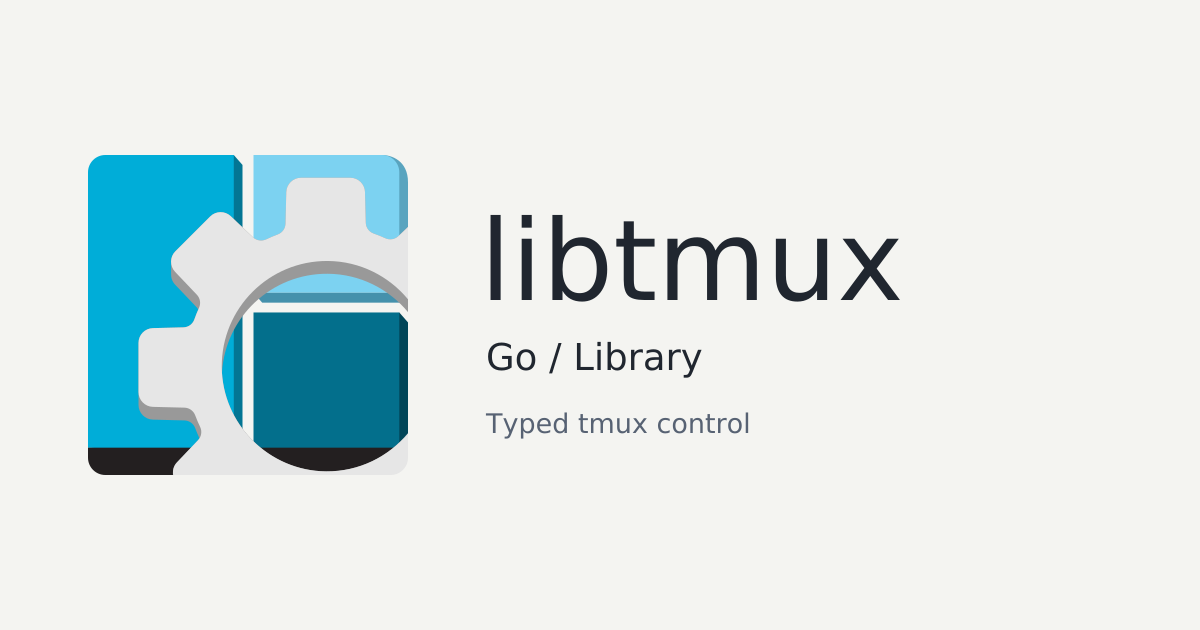
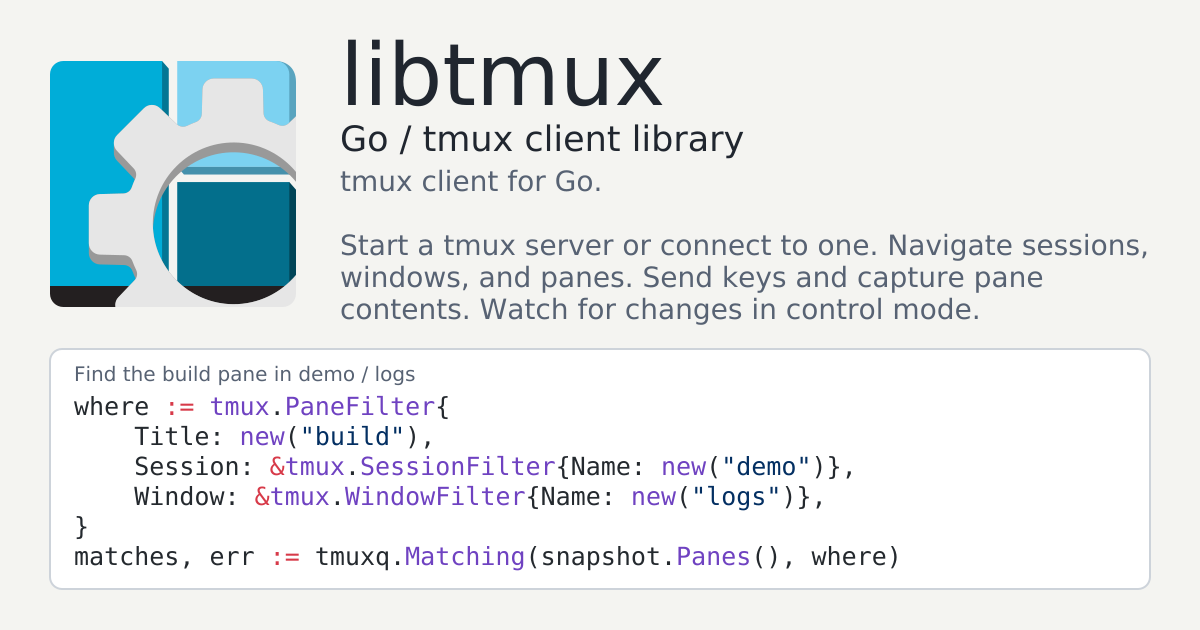
Docs(brand): Show a query on the sharing card
why: Sharing a library link should show how to query tmux in that
language.

what:
- Copy the reviewed sharing artwork and record its source revision

diff --git a/assets/README.md b/assets/README.md
@@ -12,3 +12,6 @@ symbol comes from the [upstream logo](https://github.com/modelcontextprotocol/mo
 Package-specific artwork sits beside its README where the package format
 supports it. `.github/social-preview.png` is the cog sharing card, ready to
 upload under the repository's **Settings → Social preview**.
+
+The sharing card comes from `assets/go/library/opengraph-light.png`
+at kit revision `c9688d9db25e4c522ff1255d0f3badaf27d780dd`.
